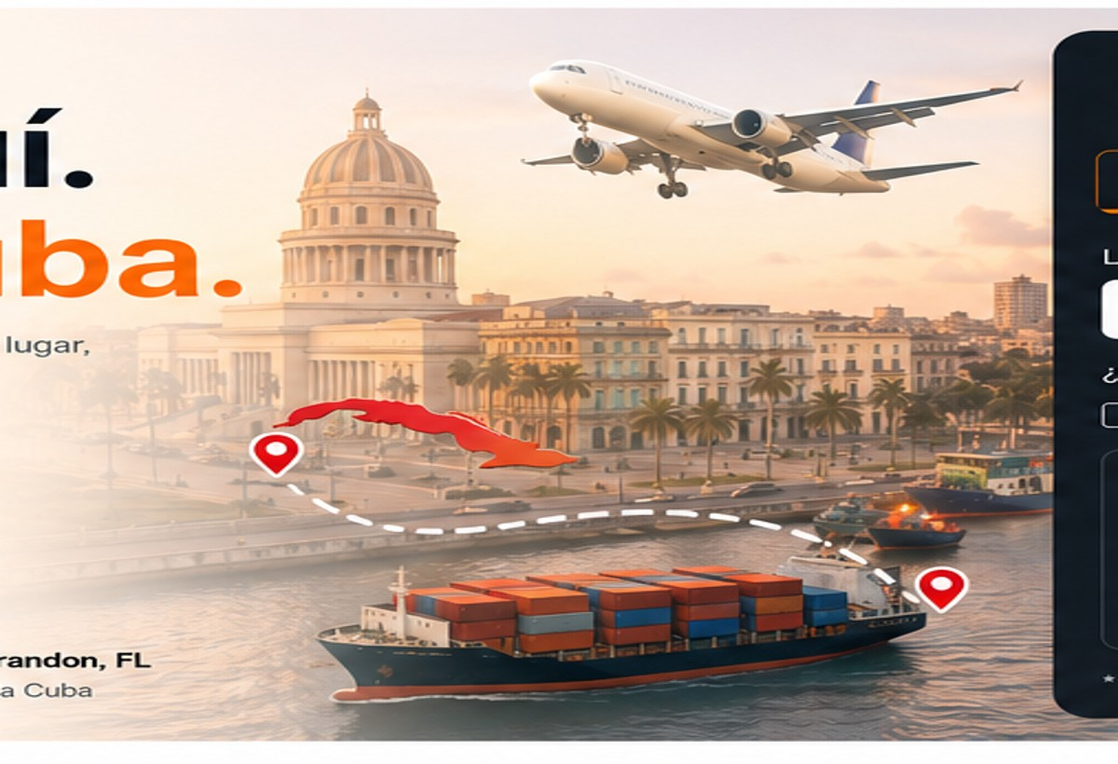
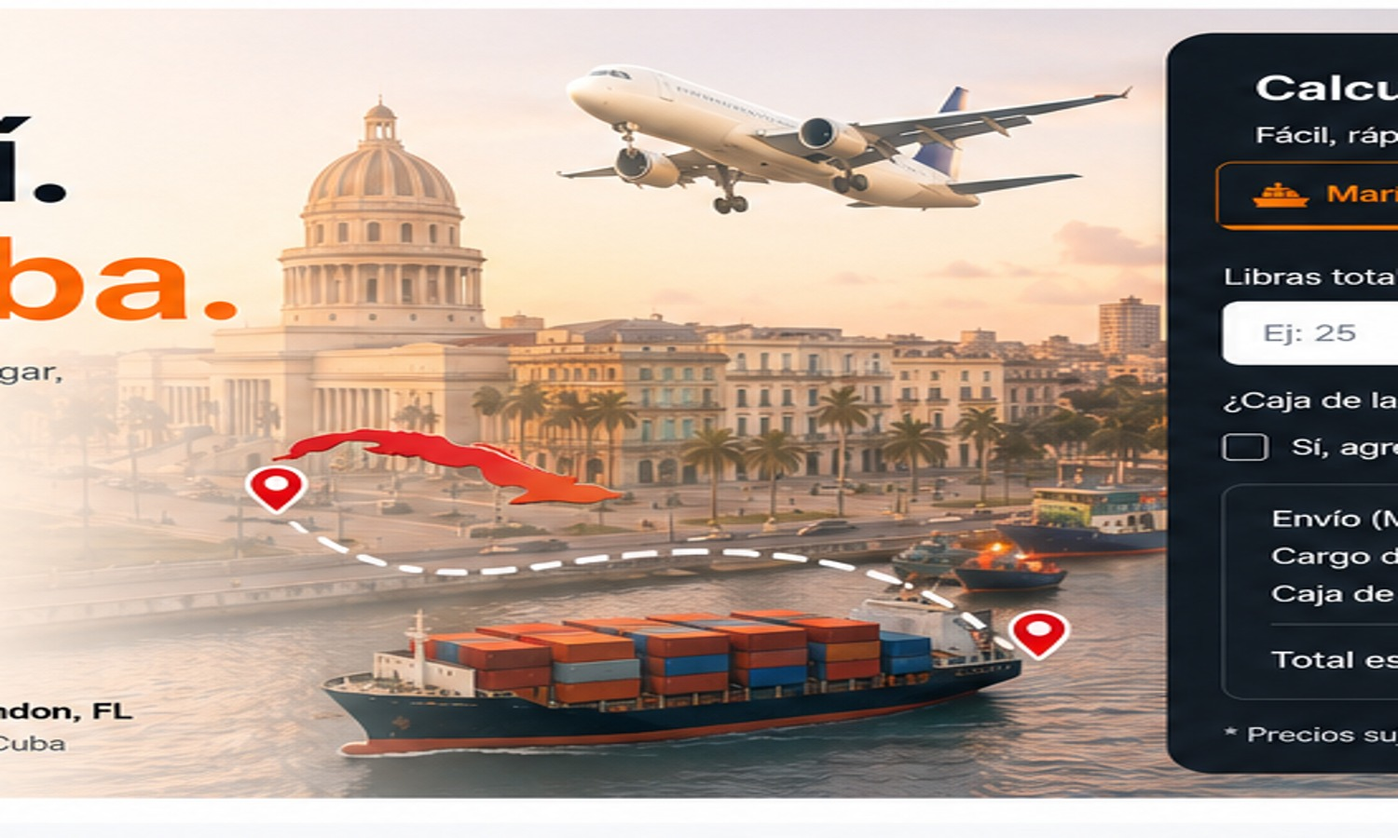
Diseño profesional definitivo Zona 3B

diff --git a/styles.css b/styles.css
@@ -1,1 +1,1 @@
-*{box-sizing:border-box}html{scroll-behavior:smooth}body{margin:0;font-family:Inter,system-ui,sans-serif;color:#0a1422;background:#fff;line-height:1.45}.wrap{width:min(1320px,calc(100% - 44px));margin:auto}.topbar{background:#07111f;color:#fff;font-size:14px}.topbar-inner{height:38px;display:flex;align-items:center;justify-content:space-between}.topbar-links{display:flex;align-items:center;gap:12px}.topbar a{color:#fff;text-decoration:none}.topbar b{color:#ff9a00}.divider{height:18px;border-left:1px solid #6b7280}.header{background:#fff;position:sticky;top:0;z-index:50;border-bottom:1px solid #e5e7eb}.nav{height:132px;display:flex;align-items:center;justify-content:space-between}.brand{display:flex;align-items:center;text-decoration:none;color:#000;gap:18px}.brand img{width:105px;height:125px;object-fit:contain}.brand-text strong{display:block;font-size:42px;line-height:1;font-weight:900;letter-spacing:.02em}.brand-text strong span{color:#1838c5}.brand-text>b{display:block;color:#ef1818;font-size:23px;letter-spacing:.35em;margin-top:8px}.brand-text small{display:block;font-weight:800;letter-spacing:.2em;font-size:12px;margin-top:8px}.menu{display:flex;align-items:center;gap:34px}.menu a{color:#111827;text-decoration:none;font-weight:600;padding:18px 0;border-bottom:3px solid transparent}.menu a.active{border-color:#ff6a00}.menu .portal{background:#07111f;color:#fff;padding:16px 26px;border-radius:10px;border:0}.menu-btn{display:none;background:none;border:0;font-size:28px}.hero{background:linear-gradient(90deg,#fffaf5 0%,#fff7ef 48%,#f7e2d1 100%)}.hero-grid{display:grid;grid-template-columns:1.03fr .78fr .75fr;min-height:520px;align-items:stretch;position:relative}.hero-copy{padding:38px 0 22px;align-self:center;z-index:2}.route-kicker{color:#e51e1e;font-weight:900;letter-spacing:.03em}.hero h1{font-size:68px;line-height:.99;letter-spacing:-.055em;margin:12px 0 18px}.hero h1 span{color:#ff5a00}.hero-copy>p{font-size:17px;color:#4b5563;max-width:560px}.hero-actions{display:flex;gap:16px;margin:28px 0 34px}.btn{display:inline-flex;align-items:center;justify-content:center;padding:16px 22px;border-radius:11px;text-decoration:none;font-weight:800}.btn-orange{background:linear-gradient(180deg,#ff7a00,#ff5a00);color:#fff}.btn-white{background:#fff;color:#111827;border:1px solid #d1d5db}.benefits{display:grid;grid-template-columns:repeat(3,1fr);gap:20px}.benefits div{display:flex;flex-direction:column;border-right:1px solid #f1b58f;padding-right:15px}.benefits div:last-child{border-right:0}.benefit-icon{color:#ff5a00;font-size:32px}.benefits strong{margin-top:8px}.benefits small{color:#64748b}.scene{background:url('hero-scene.jpg') center/cover no-repeat;min-height:520px;position:relative}.scene:after{content:"";position:absolute;inset:0;background:linear-gradient(90deg,#fff7ef 0%,rgba(255,247,239,.08) 25%,rgba(255,247,239,0) 75%,#f7e2d1 100%)}.calculator{margin:16px 0;background:linear-gradient(145deg,#0c1724,#07111f);color:#fff;border-radius:24px;padding:26px 24px;align-self:center;box-shadow:0 26px 60px rgba(4,11,20,.25);z-index:2}.calculator h2{font-size:26px;margin:0}.calculator>p{margin:2px 0 12px;color:#e5e7eb}.ship-tabs{display:grid;grid-template-columns:repeat(3,1fr);border:1px solid #334155;border-radius:10px;overflow:hidden;margin-bottom:20px}.ship-tab{background:transparent;color:#fff;border:0;padding:12px 6px;font-weight:700;border-right:1px solid #334155;cursor:pointer}.ship-tab:last-child{border-right:0}.ship-tab.active{color:#ff7a00;box-shadow:inset 0 0 0 1px #ff6a00}.field-label{display:block;margin-bottom:7px}.weight-input{display:flex;background:#fff;border-radius:9px;overflow:hidden}.weight-input input{flex:1;border:0;padding:14px;font-size:16px}.weight-input span{color:#6b7280;padding:14px}.box-check{display:flex;gap:12px;margin:18px 0;align-items:flex-start}.box-check small{color:#e5e7eb}.calc-summary{border:1px solid #334155;border-radius:11px;padding:15px}.calc-summary>div{display:flex;justify-content:space-between;padding:5px 0}.calc-total{border-top:1px solid #475569;margin-top:9px;padding-top:13px!important;font-size:18px}.calc-total b{color:#ff6a00;font-size:25px}.calc-note{display:block;margin-top:12px;color:#d1d5db}.stats-strip{padding:22px 0;background:#fff}.stats{display:grid;grid-template-columns:repeat(4,1fr);border:1px solid #e5e7eb;border-radius:16px;box-shadow:0 8px 25px rgba(15,23,42,.05)}.stats article{display:flex;gap:18px;align-items:center;padding:15px 24px;border-right:1px solid #d1d5db}.stats article:last-child{border-right:0}.stat-icon{color:#e60012;font-size:38px}.stats strong,.stats b,.stats small{display:block}.stats strong{font-size:30px}.stats small{color:#64748b}.content-section{padding:0 0 40px}.lower-grid{display:grid;grid-template-columns:1.6fr .9fr;gap:30px}.section-title-row{display:flex;justify-content:space-between;align-items:center}.section-title-row h2{font-size:27px;margin-bottom:5px}.section-title-row p{margin-top:0;color:#64748b}.red-btn{background:#e90912;color:#fff;text-decoration:none;padding:13px 20px;border-radius:9px;font-weight:800}.product-cards{display:grid;grid-template-columns:repeat(6,1fr);gap:12px}.product-cards article{border:1px solid #e5e7eb;border-radius:12px;padding:12px;text-align:center;background:#fff}.product-art{height:110px;display:grid;place-items:center;font-size:58px;background:#f8fafc;border-radius:8px}.product-cards strong{display:block;margin-top:8px}.visit-card{display:grid;grid-template-columns:1fr 1.15fr;border:1px solid #e5e7eb;border-radius:14px;overflow:hidden;box-shadow:0 8px 25px rgba(15,23,42,.05)}.visit-info{padding:22px}.visit-info h3{margin-top:0}.visit-item{display:flex;gap:12px;align-items:flex-start}.visit-item>span{color:#ef0010;font-size:26px}.visit-item p{margin:4px 0 14px}.visit-card img{width:100%;height:100%;object-fit:cover}.map-link{display:inline-block;color:#e60012;font-weight:800;text-decoration:none}.info-section{padding:60px 0;background:#f8fafc}.info-grid{display:grid;grid-template-columns:1fr 1fr;gap:60px}.info-grid h2{font-size:42px;margin:8px 0}.info-grid p{color:#64748b}.info-points{display:grid;gap:18px}.info-points>div{display:flex;gap:14px}.info-points b{width:34px;height:34px;border-radius:50%;display:grid;place-items:center;background:#fff0e5;color:#ff5a00}.info-points span{display:flex;flex-direction:column}.info-points small{color:#64748b}.offer-section{padding:45px 0}.offer-box{background:linear-gradient(135deg,#e70712,#ff5a00);color:#fff;border-radius:18px;padding:34px 40px;display:flex;justify-content:space-between;align-items:center}.offer-box h2{margin:8px 0 0}.offer-box>div>span{font-weight:900;letter-spacing:.1em}.floating{position:fixed;bottom:22px;width:58px;height:58px;border-radius:50%;display:grid;place-items:center;color:#fff;text-decoration:none;font-size:25px;z-index:60;box-shadow:0 8px 24px rgba(0,0,0,.2)}.whatsapp{left:22px;background:#20c75a}.up{right:22px;background:#e60012}footer{background:#07111f;color:#fff;padding:42px 0}.footer-grid{display:grid;grid-template-columns:1.3fr 1fr 1fr;gap:30px}.footer-brand{display:flex;align-items:center;gap:14px}.footer-brand img{width:80px}.footer-brand span{display:flex;flex-direction:column}.footer-grid p{color:#cbd5e1}.menu-btn{color:#111827}@media(max-width:1100px){.nav{height:auto;padding:16px 0}.brand img{width:75px;height:90px}.brand-text strong{font-size:30px}.brand-text>b{font-size:16px}.menu-btn{display:block}.menu{display:none;position:absolute;top:100%;left:0;right:0;background:#fff;padding:20px;flex-direction:column;align-items:flex-start}.menu.open{display:flex}.hero-grid{grid-template-columns:1fr}.scene{min-height:360px}.calculator{margin:20px 0}.benefits{grid-template-columns:1fr 1fr 1fr}.stats{grid-template-columns:1fr 1fr}.stats article:nth-child(2){border-right:0}.lower-grid{grid-template-columns:1fr}.product-cards{grid-template-columns:repeat(3,1fr)}}@media(max-width:650px){.wrap{width:min(100% - 24px,1320px)}.topbar-inner{height:auto;padding:8px 0;gap:10px;flex-direction:column}.brand-text{display:none}.hero h1{font-size:46px}.hero-actions{flex-direction:column}.benefits{grid-template-columns:1fr}.benefits div{border-right:0}.scene{min-height:280px}.stats{grid-template-columns:1fr}.stats article{border-right:0;border-bottom:1px solid #d1d5db}.stats article:last-child{border-bottom:0}.product-cards{grid-template-columns:repeat(2,1fr)}.visit-card{grid-template-columns:1fr}.info-grid{grid-template-columns:1fr}.offer-box{flex-direction:column;align-items:flex-start;gap:20px}.footer-grid{grid-template-columns:1fr}}
+*{box-sizing:border-box}html{scroll-behavior:smooth}body{margin:0;font-family:Inter,system-ui,sans-serif;color:#07111f;background:#fff;line-height:1.45}.shell{width:min(1340px,calc(100% - 44px));margin:auto}.topbar{background:#07111f;color:#fff;font-size:14px}.topbar-row{height:38px;display:flex;align-items:center;justify-content:space-between}.topbar-right{display:flex;align-items:center;gap:12px}.topbar a{color:#fff;text-decoration:none}.topbar strong{color:#ff9800}.sep{height:18px;border-left:1px solid #64748b}.header{position:sticky;top:0;z-index:50;background:#fff;border-bottom:1px solid #e5e7eb}.nav{min-height:136px;display:flex;align-items:center;justify-content:space-between}.brand{display:flex;align-items:center;gap:16px;text-decoration:none;color:#000}.brand img{width:110px;height:126px;object-fit:contain}.brand-line{font-size:43px;line-height:1;font-weight:900;letter-spacing:.02em}.brand-line span{color:#243bd2}.brand-sub{font-size:23px;font-weight:900;letter-spacing:.34em;color:#ed1d24;margin-top:7px}.brand-tag{font-size:12px;font-weight:900;letter-spacing:.2em;margin-top:8px}.menu{display:flex;align-items:center;gap:34px}.menu a{color:#111827;text-decoration:none;font-weight:700;padding:18px 0;border-bottom:3px solid transparent}.menu a.active{border-color:#ff6a00}.portal-link{background:#07111f!important;color:#fff!important;border:0!important;padding:16px 26px!important;border-radius:10px}.menu-toggle{display:none;background:none;border:0;font-size:28px}.hero{background:linear-gradient(90deg,#fffaf5 0%,#fff7ef 46%,#f6dfce 100%)}.hero-layout{display:grid;grid-template-columns:1.05fr .82fr .77fr;min-height:540px;align-items:stretch}.hero-copy{align-self:center;padding:40px 0 28px;z-index:2}.eyebrow{color:#e51f1f;font-weight:900;letter-spacing:.035em}.hero h1{font-size:72px;line-height:.98;letter-spacing:-.06em;margin:12px 0 18px}.hero h1 span{color:#ff5a00}.hero-copy>p{font-size:17px;color:#4b5563;max-width:570px}.hero-buttons{display:flex;gap:16px;margin:28px 0 36px}.btn{display:inline-flex;align-items:center;justify-content:center;padding:16px 22px;border-radius:11px;text-decoration:none;font-weight:850}.btn-primary{background:linear-gradient(180deg,#ff7a00,#ff5a00);color:#fff}.btn-secondary{background:#fff;color:#111827;border:1px solid #d1d5db}.benefit-row{display:grid;grid-template-columns:repeat(3,1fr);gap:18px}.benefit-row>div{display:flex;flex-direction:column;border-right:1px solid #efb48e;padding-right:14px}.benefit-row>div:last-child{border-right:0}.benefit-symbol{font-size:31px;color:#ff5a00}.benefit-row strong{margin-top:8px}.benefit-row small{color:#64748b}.hero-scene{background:url('hero-scene.jpg') center/cover no-repeat;min-height:540px;position:relative}.hero-scene:after{content:"";position:absolute;inset:0;background:linear-gradient(90deg,#fff7ef 0%,rgba(255,247,239,.08) 24%,rgba(255,247,239,0) 72%,#f6dfce 100%)}.calculator{align-self:center;margin:16px 0;background:linear-gradient(145deg,#0c1724,#07111f);color:#fff;border-radius:24px;padding:28px 24px;box-shadow:0 28px 65px rgba(4,11,20,.28);z-index:2}.calculator h2{font-size:27px;margin:0}.calculator>p{margin:2px 0 14px;color:#e5e7eb}.tabs{display:grid;grid-template-columns:repeat(3,1fr);border:1px solid #334155;border-radius:10px;overflow:hidden;margin-bottom:20px}.ship-tab{background:transparent;color:#fff;border:0;padding:13px 6px;font-weight:750;border-right:1px solid #334155;cursor:pointer}.ship-tab:last-child{border-right:0}.ship-tab.active{color:#ff7a00;box-shadow:inset 0 0 0 1px #ff6a00}.calculator>label:not(.box-option){display:block;margin-bottom:7px}.input-wrap{display:flex;background:#fff;border-radius:9px;overflow:hidden}.input-wrap input{flex:1;border:0;padding:14px;font-size:16px}.input-wrap span{color:#6b7280;padding:14px}.box-option{display:flex;gap:12px;align-items:flex-start;margin:18px 0}.box-option span{display:flex;flex-direction:column}.box-option small{color:#e5e7eb}.summary-box{border:1px solid #334155;border-radius:11px;padding:15px}.summary-box>div{display:flex;justify-content:space-between;padding:5px 0}.total-line{border-top:1px solid #475569;margin-top:9px;padding-top:13px!important;font-size:18px}.total-line b{color:#ff6a00;font-size:25px}.fine-print{display:block;margin-top:12px;color:#d1d5db}.stats-section{padding:22px 0;background:#fff}.stats-grid{display:grid;grid-template-columns:repeat(4,1fr);border:1px solid #e5e7eb;border-radius:16px;box-shadow:0 8px 25px rgba(15,23,42,.05)}.stats-grid article{display:flex;gap:18px;align-items:center;padding:16px 24px;border-right:1px solid #d1d5db}.stats-grid article:last-child{border-right:0}.stats-icon{font-size:38px;color:#e60012}.stats-grid strong,.stats-grid b,.stats-grid small{display:block}.stats-grid strong{font-size:30px}.stats-grid small{color:#64748b}.products-section{padding:0 0 42px}.content-grid{display:grid;grid-template-columns:1.65fr .9fr;gap:30px}.section-head{display:flex;justify-content:space-between;align-items:center}.section-head h2{font-size:28px;margin-bottom:5px}.section-head p{margin-top:0;color:#64748b}.red-button{background:#e90912;color:#fff;text-decoration:none;padding:13px 20px;border-radius:9px;font-weight:850}.products-grid{display:grid;grid-template-columns:repeat(6,1fr);gap:12px}.products-grid article{border:1px solid #e5e7eb;border-radius:12px;padding:12px;text-align:center;background:#fff;transition:.2s}.products-grid article:hover{transform:translateY(-4px);box-shadow:0 12px 25px rgba(15,23,42,.08)}.product-visual{height:112px;display:grid;place-items:center;font-size:58px;background:#f8fafc;border-radius:8px}.products-grid strong{display:block;margin-top:8px}.visit-card{display:grid;grid-template-columns:1fr 1.16fr;border:1px solid #e5e7eb;border-radius:14px;overflow:hidden;box-shadow:0 8px 25px rgba(15,23,42,.05)}.visit-copy{padding:22px}.visit-copy h3{margin-top:0}.visit-line{display:flex;gap:12px;align-items:flex-start}.visit-line>span{font-size:26px;color:#ef0010}.visit-line p{margin:4px 0 14px}.visit-card img{width:100%;height:100%;object-fit:cover}.visit-card a{color:#e60012;font-weight:850;text-decoration:none}.about-section{padding:62px 0;background:#f8fafc}.about-grid{display:grid;grid-template-columns:1fr 1fr;gap:60px}.about-grid h2{font-size:42px;margin:8px 0}.about-grid p{color:#64748b}.about-points{display:grid;gap:18px}.about-points>div{display:flex;gap:14px}.about-points b{width:34px;height:34px;border-radius:50%;display:grid;place-items:center;background:#fff0e5;color:#ff5a00}.about-points span{display:flex;flex-direction:column}.about-points small{color:#64748b}.offers-section{padding:45px 0}.offers-box{background:linear-gradient(135deg,#e70712,#ff5a00);color:#fff;border-radius:18px;padding:34px 40px;display:flex;align-items:center;justify-content:space-between}.offers-box>div>span{font-weight:900;letter-spacing:.1em}.offers-box h2{margin:8px 0 0}.floating{position:fixed;bottom:22px;width:58px;height:58px;border-radius:50%;display:grid;place-items:center;color:#fff;text-decoration:none;font-size:25px;z-index:60;box-shadow:0 8px 24px rgba(0,0,0,.2)}.floating-whatsapp{left:22px;background:#20c75a}.floating-up{right:22px;background:#e60012}footer{background:#07111f;color:#fff;padding:42px 0}.footer-grid{display:grid;grid-template-columns:1.3fr 1fr 1fr;gap:30px}.footer-brand{display:flex;align-items:center;gap:14px}.footer-brand img{width:82px}.footer-brand span{display:flex;flex-direction:column}.footer-grid p{color:#cbd5e1}@media(max-width:1120px){.nav{min-height:auto;padding:16px 0}.brand img{width:78px;height:92px}.brand-line{font-size:31px}.brand-sub{font-size:17px}.menu-toggle{display:block}.menu{display:none;position:absolute;top:100%;left:0;right:0;background:#fff;padding:20px;flex-direction:column;align-items:flex-start}.menu.open{display:flex}.hero-layout{grid-template-columns:1fr}.hero-scene{min-height:370px}.calculator{margin:20px 0}.stats-grid{grid-template-columns:1fr 1fr}.stats-grid article:nth-child(2){border-right:0}.content-grid{grid-template-columns:1fr}.products-grid{grid-template-columns:repeat(3,1fr)}}@media(max-width:680px){.shell{width:min(100% - 24px,1340px)}.topbar-row{height:auto;padding:8px 0;gap:10px;flex-direction:column}.brand-copy{display:none}.hero h1{font-size:48px}.hero-buttons{flex-direction:column}.benefit-row{grid-template-columns:1fr}.benefit-row>div{border-right:0}.hero-scene{min-height:285px}.stats-grid{grid-template-columns:1fr}.stats-grid article{border-right:0;border-bottom:1px solid #d1d5db}.stats-grid article:last-child{border-bottom:0}.products-grid{grid-template-columns:repeat(2,1fr)}.visit-card{grid-template-columns:1fr}.about-grid{grid-template-columns:1fr}.offers-box{flex-direction:column;align-items:flex-start;gap:20px}.footer-grid{grid-template-columns:1fr}}

diff --git a/index.html b/index.html
@@ -4,8 +4,8 @@
   <meta charset="utf-8">
   <meta name="viewport" content="width=device-width,initial-scale=1">
   <meta name="description" content="Zona 3B Brandon: tienda y envíos a Cuba desde Tampa, Florida.">
-  <meta name="theme-color" content="#06111f">
-  <title>Zona 3B Brandon | Compra aquí, envíalo a Cuba</title>
+  <meta name="theme-color" content="#07111f">
+  <title>Zona 3B Brandon | Compra aquí. Envíalo a Cuba.</title>
   <link rel="icon" href="logo.png">
   <link rel="preconnect" href="https://fonts.googleapis.com">
   <link rel="preconnect" href="https://fonts.gstatic.com" crossorigin>
@@ -14,11 +14,11 @@
 </head>
 <body>
   <div class="topbar">
-    <div class="wrap topbar-inner">
+    <div class="shell topbar-row">
       <span>📦 Envíos marítimos, aéreos y express a Cuba</span>
-      <div class="topbar-links">
-        <a id="top-phone" href="#">☎ <b>(813) 900-5831</b></a>
-        <span class="divider"></span>
+      <div class="topbar-right">
+        <a id="top-phone" href="#">☎ <strong>(813) 900-5831</strong></a>
+        <span class="sep"></span>
         <a href="#" aria-label="Facebook">f</a>
         <a href="#" aria-label="Instagram">◎</a>
         <a id="top-whatsapp" href="#" aria-label="WhatsApp">◉</a>
@@ -27,17 +27,17 @@
   </div>
 
   <header class="header">
-    <div class="wrap nav">
+    <div class="shell nav">
       <a class="brand" href="#inicio">
-        <img src="logo.png" alt="Zona 3B">
-        <div class="brand-text">
-          <strong>ZONA <span>3B</span></strong>
-          <b>BRANDON</b>
-          <small>BUENO, BONITO Y BARATO</small>
+        <img src="logo.png" alt="Logo Zona 3B">
+        <div class="brand-copy">
+          <div class="brand-line">ZONA <span>3B</span></div>
+          <div class="brand-sub">BRANDON</div>
+          <div class="brand-tag">BUENO, BONITO Y BARATO</div>
         </div>
       </a>
 
-      <button class="menu-btn" aria-label="Abrir menú" aria-expanded="false">☰</button>
+      <button class="menu-toggle" aria-label="Abrir menú" aria-expanded="false">☰</button>
 
       <nav class="menu">
         <a class="active" href="#inicio">Inicio</a>
@@ -46,111 +46,136 @@
         <a href="#ofertas">Ofertas</a>
         <a href="#nosotros">Nosotros</a>
         <a href="#contacto">Contacto</a>
-        <a class="portal" id="portal-link" href="#">Portal empleados</a>
+        <a class="portal-link" id="portal-link" href="#">Portal empleados</a>
       </nav>
     </div>
   </header>
 
   <main>
     <section class="hero" id="inicio">
-      <div class="wrap hero-grid">
+      <div class="shell hero-layout">
         <div class="hero-copy">
-          <span class="route-kicker">BRANDON, FLORIDA → CUBA</span>
+          <span class="eyebrow">BRANDON, FLORIDA → CUBA</span>
           <h1>Compra aquí.<br><span>Envíalo a Cuba.</span></h1>
           <p>Productos, promociones y tres opciones de envío en un solo lugar, con atención personalizada para cada cliente.</p>
 
-          <div class="hero-actions">
-            <a class="btn btn-orange" href="#calculadora">📦 Calcular envío</a>
-            <a class="btn btn-white" id="hero-whatsapp" href="#">🟢 Escribir por WhatsApp</a>
+          <div class="hero-buttons">
+            <a class="btn btn-primary" href="#calculadora">📦 Calcular envío</a>
+            <a class="btn btn-secondary" id="hero-whatsapp" href="#">🟢 Escribir por WhatsApp</a>
           </div>
 
-          <div class="benefits">
-            <div><span class="benefit-icon">✓</span><strong>Precios claros</strong><small>Sin cargos ocultos</small></div>
-            <div><span class="benefit-icon">◔</span><strong>Atención personalizada</strong><small>Estamos para ayudarte</small></div>
-            <div><span class="benefit-icon">⌖</span><strong>Desde Brandon, FL</strong><small>Hasta toda Cuba</small></div>
+          <div class="benefit-row">
+            <div>
+              <span class="benefit-symbol">✓</span>
+              <strong>Precios claros</strong>
+              <small>Sin cargos ocultos</small>
+            </div>
+            <div>
+              <span class="benefit-symbol">◔</span>
+              <strong>Atención personalizada</strong>
+              <small>Estamos para ayudarte</small>
+            </div>
+            <div>
+              <span class="benefit-symbol">⌖</span>
+              <strong>Desde Brandon, FL</strong>
+              <small>Hasta toda Cuba</small>
+            </div>
           </div>
         </div>
 
-        <div class="scene" aria-hidden="true"></div>
+        <div class="hero-scene" aria-hidden="true"></div>
 
         <aside class="calculator" id="calculadora">
           <h2>Calcula tu envío</h2>
           <p>Fácil, rápido y seguro</p>
 
-          <div class="ship-tabs" id="ship-tabs"></div>
+          <div class="tabs" id="ship-tabs"></div>
 
-          <label class="field-label" for="pounds">Libras totales</label>
-          <div class="weight-input">
+          <label for="pounds">Libras totales</label>
+          <div class="input-wrap">
             <input id="pounds" type="number" min="0" step="0.1" placeholder="Ej: 25">
             <span>lb</span>
           </div>
 
-          <label class="box-check">
+          <label class="box-option">
             <input id="store-box" type="checkbox">
-            <span>¿Caja de la tienda?<br><small>Sí, agregar caja (+ $3.00)</small></span>
+            <span><strong>¿Caja de la tienda?</strong><small>Sí, agregar caja (+ $3.00)</small></span>
           </label>
 
-          <div class="calc-summary">
+          <div class="summary-box">
             <div><span id="shipping-label">Envío (Marítimo)</span><b id="shipping-cost">$0.00</b></div>
             <div><span>Cargo del sistema</span><b id="system-cost">$1.30</b></div>
             <div><span>Caja de la tienda</span><b id="box-cost">$0.00</b></div>
-            <div class="calc-total"><span>Total estimado</span><b id="total-cost">$1.30</b></div>
+            <div class="total-line"><span>Total estimado</span><b id="total-cost">$1.30</b></div>
           </div>
-          <small class="calc-note">* Precios sujetos a cambios sin previo aviso.</small>
+
+          <small class="fine-print">* Precios sujetos a cambios sin previo aviso.</small>
         </aside>
       </div>
     </section>
 
-    <section class="stats-strip" id="envios">
-      <div class="wrap stats">
-        <article><span class="stat-icon">□</span><div><strong>3</strong><b>Opciones de envío</b><small>Marítimo, Aéreo y Express</small></div></article>
-        <article><span class="stat-icon">▤</span><div><strong>1</strong><b>Recibo unificado</b><small>Más fácil y organizado</small></div></article>
-        <article><span class="stat-icon">◇</span><div><strong>100%</strong><b>Atención local</b><small>Desde Brandon, Florida</small></div></article>
-        <article><span class="stat-icon">◷</span><div><strong>Todos los días</strong><b>9:00am – 6:00pm</b><small>Abierto todos los días</small></div></article>
+    <section class="stats-section" id="envios">
+      <div class="shell stats-grid">
+        <article>
+          <span class="stats-icon">□</span>
+          <div><strong>3</strong><b>Opciones de envío</b><small>Marítimo, Aéreo y Express</small></div>
+        </article>
+        <article>
+          <span class="stats-icon">▤</span>
+          <div><strong>1</strong><b>Recibo unificado</b><small>Más fácil y organizado</small></div>
+        </article>
+        <article>
+          <span class="stats-icon">◇</span>
+          <div><strong>100%</strong><b>Atención local</b><small>Desde Brandon, Florida</small></div>
+        </article>
+        <article>
+          <span class="stats-icon">◷</span>
+          <div><strong>Todos los días</strong><b>9:00am – 6:00pm</b><small>Abierto todos los días</small></div>
+        </article>
       </div>
     </section>
 
-    <section class="content-section" id="productos">
-      <div class="wrap lower-grid">
+    <section class="products-section" id="productos">
+      <div class="shell content-grid">
         <div class="products-panel">
-          <div class="section-title-row">
+          <div class="section-head">
             <div>
               <h2>Productos que te encantan</h2>
               <p>Encuentra lo mejor para ti y para los que más quieres.</p>
             </div>
-            <a class="red-btn" id="products-whatsapp" href="#">Ver todos los productos</a>
+            <a class="red-button" id="products-whatsapp" href="#">Ver todos los productos</a>
           </div>
 
-          <div class="product-cards">
-            <article><div class="product-art">🌀</div><strong>Ventiladores</strong></article>
-            <article><div class="product-art">🔦</div><strong>Lámparas</strong></article>
-            <article><div class="product-art">🍪</div><strong>Alimentos</strong></article>
-            <article><div class="product-art">🧴</div><strong>Aseo</strong></article>
-            <article><div class="product-art">🧼</div><strong>Limpieza</strong></article>
-            <article><div class="product-art">🍲</div><strong>Hogar</strong></article>
+          <div class="products-grid">
+            <article><div class="product-visual">🌀</div><strong>Ventiladores</strong></article>
+            <article><div class="product-visual">🔦</div><strong>Lámparas</strong></article>
+            <article><div class="product-visual">🍪</div><strong>Alimentos</strong></article>
+            <article><div class="product-visual">🧴</div><strong>Aseo</strong></article>
+            <article><div class="product-visual">🧼</div><strong>Limpieza</strong></article>
+            <article><div class="product-visual">🍲</div><strong>Hogar</strong></article>
           </div>
         </div>
 
         <aside class="visit-card" id="contacto">
-          <div class="visit-info">
+          <div class="visit-copy">
             <h3>Visítanos</h3>
-            <div class="visit-item"><span>⌖</span><p><b id="address-1"></b><br><b id="address-2"></b></p></div>
-            <div class="visit-item"><span>◷</span><p><b>Todos los días</b><br>9:00am – 6:00pm</p></div>
-            <a class="map-link" id="map-link" href="#">Cómo llegar</a>
+            <div class="visit-line"><span>⌖</span><p><b id="address-1"></b><br><b id="address-2"></b></p></div>
+            <div class="visit-line"><span>◷</span><p><b>Todos los días</b><br>9:00am – 6:00pm</p></div>
+            <a id="map-link" href="#">Cómo llegar</a>
           </div>
-          <img src="map-preview.jpg" alt="Mapa de la tienda">
+          <img src="map-preview.jpg" alt="Mapa de ubicación">
         </aside>
       </div>
     </section>
 
-    <section class="info-section" id="nosotros">
-      <div class="wrap info-grid">
+    <section class="about-section" id="nosotros">
+      <div class="shell about-grid">
         <div>
-          <span class="route-kicker">ZONA 3B BRANDON</span>
+          <span class="eyebrow">ZONA 3B BRANDON</span>
           <h2>Todo en un solo lugar</h2>
           <p>Compra productos, prepara tu envío y recibe atención personalizada en la misma visita.</p>
         </div>
-        <div class="info-points">
+        <div class="about-points">
           <div><b>✓</b><span><strong>Servicio local</strong><small>Atención en español desde Tampa.</small></span></div>
           <div><b>✓</b><span><strong>Opciones para cada necesidad</strong><small>Marítimo, aéreo y express.</small></span></div>
           <div><b>✓</b><span><strong>Precios transparentes</strong><small>Estimados claros antes de pagar.</small></span></div>
@@ -158,23 +183,26 @@
       </div>
     </section>
 
-    <section class="offer-section" id="ofertas">
-      <div class="wrap offer-box">
+    <section class="offers-section" id="ofertas">
+      <div class="shell offers-box">
         <div>
           <span>OFERTAS Y PROMOCIONES</span>
           <h2>Pregunta por los productos disponibles esta semana</h2>
         </div>
-        <a class="btn btn-white" id="offers-whatsapp" href="#">Escribir por WhatsApp</a>
+        <a class="btn btn-secondary" id="offers-whatsapp" href="#">Escribir por WhatsApp</a>
       </div>
     </section>
   </main>
 
-  <a class="floating whatsapp" id="floating-whatsapp" href="#">●</a>
-  <a class="floating up" href="#inicio">↑</a>
+  <a class="floating floating-whatsapp" id="floating-whatsapp" href="#" aria-label="WhatsApp">●</a>
+  <a class="floating floating-up" href="#inicio" aria-label="Volver arriba">↑</a>
 
   <footer>
-    <div class="wrap footer-grid">
-      <div class="footer-brand"><img src="logo.png" alt=""><span><b>Zona 3B Brandon</b><small>Bueno, bonito y barato</small></span></div>
+    <div class="shell footer-grid">
+      <div class="footer-brand">
+        <img src="logo.png" alt="">
+        <span><b>Zona 3B Brandon</b><small>Bueno, bonito y barato</small></span>
+      </div>
       <div><b>Contacto</b><p>(813) 900-5831<br>2135 South 78th St<br>Tampa, FL 33619</p></div>
       <div><b>Horario</b><p>Todos los días<br>9:00am – 6:00pm</p></div>
     </div>

diff --git a/script.js b/script.js
@@ -1,41 +1,43 @@
 const cfg = window.ZONA3B_SITE;
 let currentType = "maritime";
 
-function money(n){ return `$${n.toFixed(2)}`; }
-function wa(text){ return `https://wa.me/${cfg.whatsappDigits}?text=${encodeURIComponent(text)}`; }
+const money = value => `$${value.toFixed(2)}`;
+const whatsappUrl = message => `https://wa.me/${cfg.whatsappDigits}?text=${encodeURIComponent(message)}`;
 
-function initLinks(){
+function setupLinks() {
   document.getElementById("portal-link").href = cfg.portalUrl;
   document.getElementById("top-phone").href = `tel:+${cfg.phoneDigits}`;
-  document.getElementById("top-whatsapp").href = wa("Hola, quiero información sobre Zona 3B Brandon.");
-  document.getElementById("hero-whatsapp").href = wa("Hola, quiero información sobre productos y envíos.");
-  document.getElementById("products-whatsapp").href = wa("Hola, quiero conocer los productos disponibles.");
-  document.getElementById("offers-whatsapp").href = wa("Hola, quiero conocer las ofertas vigentes.");
-  document.getElementById("floating-whatsapp").href = wa("Hola, quiero información.");
+  document.getElementById("top-whatsapp").href = whatsappUrl("Hola, quiero información sobre Zona 3B Brandon.");
+  document.getElementById("hero-whatsapp").href = whatsappUrl("Hola, quiero información sobre productos y envíos.");
+  document.getElementById("products-whatsapp").href = whatsappUrl("Hola, quiero conocer los productos disponibles.");
+  document.getElementById("offers-whatsapp").href = whatsappUrl("Hola, quiero conocer las ofertas vigentes.");
+  document.getElementById("floating-whatsapp").href = whatsappUrl("Hola, quiero información.");
   document.getElementById("map-link").href = cfg.mapsUrl;
   document.getElementById("address-1").textContent = cfg.addressLine1;
   document.getElementById("address-2").textContent = cfg.addressLine2;
 }
 
-function renderTabs(){
+function renderTabs() {
   const holder = document.getElementById("ship-tabs");
-  holder.innerHTML = Object.entries(cfg.rates).map(([key,item]) =>
-    `<button class="ship-tab ${key===currentType?"active":""}" data-type="${key}">${item.icon} ${item.label}</button>`
+  holder.innerHTML = Object.entries(cfg.rates).map(([key, item]) =>
+    `<button class="ship-tab ${key === currentType ? "active" : ""}" data-type="${key}">${item.icon} ${item.label}</button>`
   ).join("");
-  holder.addEventListener("click", e => {
-    const btn = e.target.closest(".ship-tab");
-    if(!btn) return;
-    currentType = btn.dataset.type;
-    document.querySelectorAll(".ship-tab").forEach(b=>b.classList.toggle("active", b===btn));
+
+  holder.addEventListener("click", event => {
+    const button = event.target.closest(".ship-tab");
+    if (!button) return;
+    currentType = button.dataset.type;
+    document.querySelectorAll(".ship-tab").forEach(tab => tab.classList.toggle("active", tab === button));
     calculate();
   });
 }
 
-function calculate(){
+function calculate() {
   const pounds = Number(document.getElementById("pounds").value) || 0;
   const shipping = pounds * cfg.rates[currentType].rate;
   const box = document.getElementById("store-box").checked ? cfg.storeBoxFee : 0;
   const total = shipping + cfg.systemFee + box;
+
   document.getElementById("shipping-label").textContent = `Envío (${cfg.rates[currentType].label})`;
   document.getElementById("shipping-cost").textContent = money(shipping);
   document.getElementById("system-cost").textContent = money(cfg.systemFee);
@@ -43,17 +45,17 @@ function calculate(){
   document.getElementById("total-cost").textContent = money(total);
 }
 
-function setupMenu(){
-  const btn = document.querySelector(".menu-btn");
+function setupMenu() {
+  const button = document.querySelector(".menu-toggle");
   const menu = document.querySelector(".menu");
-  btn.addEventListener("click", ()=>{
+  button.addEventListener("click", () => {
     const open = menu.classList.toggle("open");
-    btn.setAttribute("aria-expanded", String(open));
+    button.setAttribute("aria-expanded", String(open));
   });
-  menu.querySelectorAll("a").forEach(a=>a.addEventListener("click",()=>menu.classList.remove("open")));
+  menu.querySelectorAll("a").forEach(link => link.addEventListener("click", () => menu.classList.remove("open")));
 }
 
-initLinks();
+setupLinks();
 renderTabs();
 calculate();
 document.getElementById("pounds").addEventListener("input", calculate);

diff --git a/config.js b/config.js
@@ -4,7 +4,8 @@ window.ZONA3B_SITE = {
   whatsappDigits: "18139005831",
   addressLine1: "2135 South 78th St",
   addressLine2: "Tampa, FL 33619",
-  hours: "Todos los días · 9:00am – 6:00pm",
+  hoursLine1: "Todos los días",
+  hoursLine2: "9:00am – 6:00pm",
   portalUrl: "https://portal.zona3brandon.us",
   mapsUrl: "https://www.google.com/maps/search/?api=1&query=2135+South+78th+St%2C+Tampa%2C+FL+33619",
   rates: {
